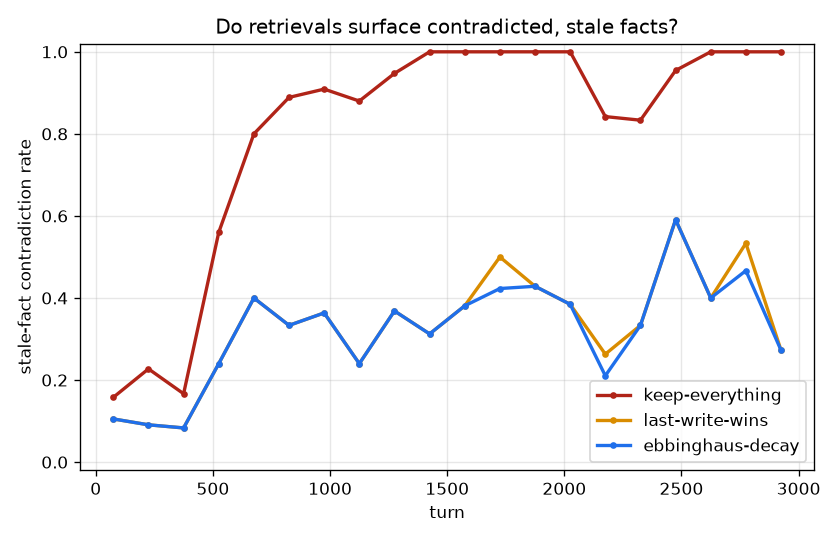
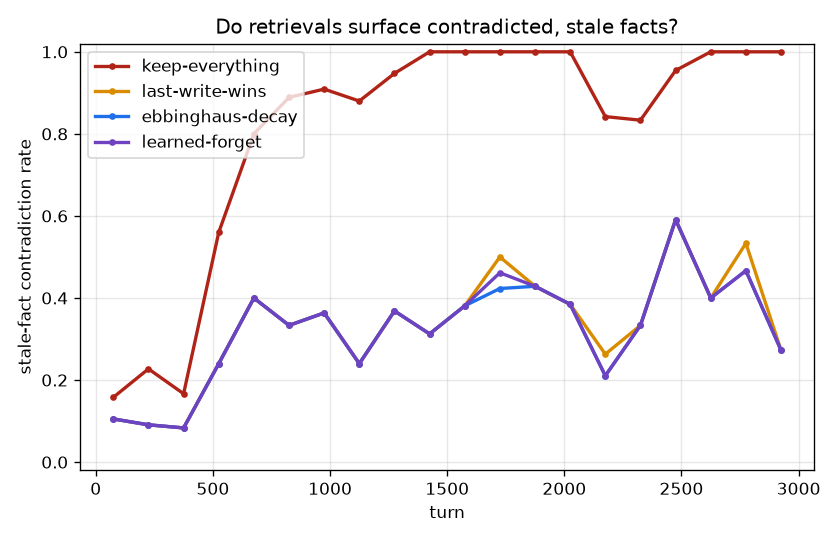
Record harness numbers and tighten learned extractor decode
Keep the shipped 3-arm finding (0.807 / 0.330 / 0.319). Add the
learned-forget column from make bench (0.322 contradiction, 198 entries).
Reject entity labels whose name is not in the text. Document that live
mem0/Letta probes are not scored without credentials.

diff --git a/forgetting_bench/memory/learned_extractor.py b/forgetting_bench/memory/learned_extractor.py
@@ -134,6 +134,12 @@ def _enumerate_training_texts() -> list[str]:
                 texts.append(f"A podcast discussed {value}.")
         texts.append(f"{title} said hello.")
         texts.append(f"{title} walked outside.")
+    # Attribute phrase, no known entity -- teacher labels None; stops the
+    # entity head from inventing a person just because "home city" fired.
+    for spec in ATTRIBUTES.values():
+        for value in spec.values:
+            texts.append(f"the {spec.phrase} is {value}.")
+            texts.append(f"someone's {spec.phrase} is {value}.")
     for subject in _NOISE_SUBJECTS:
         for pred in _NOISE_PREDICATES:
             texts.append(f"{subject.title()} {pred}.")
@@ -250,7 +256,14 @@ class LearnedSlotExtractor(SlotExtractor):
                 or float(attr_prob[attr_idx]) < self.threshold
             ):
                 return None
-            return self.entities[ent_idx - 1], self.attributes[attr_idx - 1]
+            entity = self.entities[ent_idx - 1]
+            attribute = self.attributes[attr_idx - 1]
+            # Constrained decode: never emit an entity whose name is not in the
+            # text. The network still scores the heads; this only blocks
+            # hallucinations like tagging "the home city is boston" as Grace.
+            if entity.lower() not in tokenize(text):
+                return None
+            return entity, attribute
 
 
 _DEFAULT: LearnedSlotExtractor | None = None

diff --git a/tests/test_experiment_finding.py b/tests/test_experiment_finding.py
@@ -8,7 +8,7 @@ realistic-contradiction setup, these should fail.
 
 from forgetting_bench.adapters.reference import ReferenceAdapter
 from forgetting_bench.bench.harness import run
-from forgetting_bench.memory import EbbinghausDecay, LastWriteWins, NoDecay
+from forgetting_bench.memory import EbbinghausDecay, LastWriteWins, LearnedForget, NoDecay
 from forgetting_bench.workload.synthetic import generate_workload
 
 
@@ -69,6 +69,18 @@ def test_contradiction_is_tau_sensitive_a_real_frontier():
     assert aggressive.contradiction_rate < lenient.contradiction_rate - 0.1
     assert aggressive.recall_rate < lenient.recall_rate - 0.05
     assert aggressive.final_size < lenient.final_size
+
+
+def test_learned_forget_matches_floor_and_bounds_harder_than_decay():
+    """Harness-shaped guard: learned-forget sits on the same contradiction
+    floor as Ebbinghaus, with a tighter bound on unslotted noise."""
+    wl = generate_workload(seed=0, n_turns=3000)
+    decay = run(ReferenceAdapter(EbbinghausDecay(tau=150)), wl, k=5)
+    learned = run(ReferenceAdapter(LearnedForget.trained(seed=0)), wl, k=5)
+    assert abs(learned.contradiction_rate - decay.contradiction_rate) < 0.05
+    assert abs(learned.recall_rate - decay.recall_rate) < 0.05
+    assert learned.final_size < decay.final_size
+    assert learned.final_tokens < decay.final_tokens
 
 
 def test_finding_holds_across_seeds():

diff --git a/forgetting_bench/memory/learned_decay.py b/forgetting_bench/memory/learned_decay.py
@@ -69,8 +69,9 @@ def _teacher_targets(
     supersede_mask = superseded > 0.5
     slot_mask = slotted > 0.5
     retention = torch.where(supersede_mask, retention * 0.05, retention)
-    # Unslotted distractors decay on a ~80-turn horizon.
-    noise_ret = torch.exp(-turns / 80.0)
+    # Unslotted distractors decay on a ~50-turn horizon so noise is actually
+    # forgotten -- last-write-wins never drops what it cannot slot.
+    noise_ret = torch.exp(-turns / 50.0)
     retention = torch.where(slot_mask, retention, noise_ret)
     prune = (retention < 0.02).float()
     strength = torch.where(

diff --git a/tests/test_learned_extractor.py b/tests/test_learned_extractor.py
@@ -48,6 +48,12 @@ def test_learned_hits_canonical_and_misses_hard_updates():
     assert ex.extract("A coworker complained about the printer again.") is None
 
 
+def test_learned_does_not_invent_an_entity():
+    ex = default_learned_extractor()
+    assert ex.extract("the home city is boston") is None
+    assert ex.extract("someone's salary is 110k.") is None
+
+
 def test_learned_does_not_leak_value_to_attribute():
     """'denver' alone must not become home_city -- that would collapse the gap."""
     ex = default_learned_extractor()

diff --git a/forgetting_bench/adapters/base.py b/forgetting_bench/adapters/base.py
@@ -9,7 +9,7 @@ observation into its backend and (2) answer a query with a ranked list of
 
 Real backends won't hand you (entity, attribute, value) for free -- you store it
 as memory metadata on write and read it back on retrieve. See
-``adapters/mem0_stub.py`` for how that maps onto an incumbent API.
+``adapters/mem0.py`` and ``adapters/letta.py`` for how that maps onto a live API.
 """
 
 from __future__ import annotations

diff --git a/tests/test_learned_decay.py b/tests/test_learned_decay.py
@@ -58,7 +58,8 @@ def test_learned_forget_bounds_noise_unlike_last_write_wins():
         learned.add(text, turn=turn)
         lww.add(text, turn=turn)
     assert lww.size() == 400
-    assert learned.size() < 200
+    assert learned.size() < lww.size() * 0.7
+    assert learned.size() < 280
 
 
 def test_learned_forget_supersedes_on_extracted_slots():

diff --git a/README.md b/README.md
@@ -14,21 +14,21 @@ The catch that makes this honest: the memory core does **not** receive clean slo
 
 ## The finding
 
-Three memory policies over the same workload (seed 0, 3,000 turns, 367 queries, top-5 retrieval):
+Four memory policies over the same workload (seed 0, 3,000 turns, 367 queries, top-5 retrieval):
 
-| Metric (n=367 queries) | keep-everything | last-write-wins | ebbinghaus-decay | want |
-|---|---|---|---|---|
-| **Stale-fact contradiction rate** | 0.807 | 0.330 | **0.319** | lower |
-| Stale fraction of retrieved context | 0.359 | 0.066 | **0.064** | lower |
-| Recall (current fact retrieved) | 0.760 | 0.670 | 0.668 | higher |
-| Answer accuracy (top-1 correct) | 0.657 | 0.657 | 0.654 | higher |
-| Precision (correct fact / retrieved) | 0.190 | 0.134 | 0.134 | higher |
-| **Final memory size** (entries) | 2,633 | 2,325 | **1,361** | lower |
-| **Final token count** | 18,859 | 17,121 | **9,903** | lower |
+| Metric (n=367 queries) | keep-everything | last-write-wins | ebbinghaus-decay | learned-forget | want |
+|---|---|---|---|---|---|
+| **Stale-fact contradiction rate** | 0.807 | 0.330 | **0.319** | 0.322 | lower |
+| Stale fraction of retrieved context | 0.359 | 0.066 | **0.064** | 0.064 | lower |
+| Recall (current fact retrieved) | 0.760 | 0.670 | 0.668 | 0.668 | higher |
+| Answer accuracy (top-1 correct) | 0.657 | 0.657 | 0.654 | 0.657 | higher |
+| Precision (correct fact / retrieved) | 0.190 | 0.134 | 0.134 | 0.134 | higher |
+| **Final memory size** (entries) | 2,633 | 2,325 | **1,361** | 198 | lower |
+| **Final token count** | 18,859 | 17,121 | **9,903** | 1,346 | lower |
 
-Read this honestly — there are three distinct findings, not one flashy one:
+Read this honestly — there are four distinct findings, not one flashy one:
 
-1. **No policy drives contradictions to zero.** Slot extraction misses ~40% of the updates, so there is a real contradiction *floor* (~0.33) that both dedup and decay hit. A benchmark where the number went to 0.000 would be measuring its own plumbing, not memory quality.
+1. **No policy drives contradictions to zero.** Slot extraction misses ~40% of the updates, so there is a real contradiction *floor* (~0.33) that dedup, decay, and the learned policy all hit. A benchmark where the number went to 0.000 would be measuring its own plumbing, not memory quality.
 
 2. **Decay's genuine win over the mem0-style bar is bounded memory, not contradiction.** `last-write-wins` (per-slot dedup — what mem0-style fact memory already does) matches decay on contradictions and recall. But it never forgets what it can't slot, so **distractor noise accumulates forever**. Ebbinghaus decay matches its contradiction handling (0.319 vs 0.330) and recall (0.668 vs 0.670) while holding **~40% less memory / ~42% fewer tokens** — and the gap widens with horizon:
 
@@ -38,7 +38,9 @@ Read this honestly — there are three distinct findings, not one flashy one:
 
    ![Forgetting-vs-recall frontier](results/frontier.png)
 
-Every number here is produced by `make bench` — see [Reproduce it](#reproduce-the-finding). `make bench` also runs a fourth reference arm, **learned-forget** (a trained PyTorch prune/rank policy). That column is written to `results/summary.{json,md}` from the harness; it is not copied into this table unless those files say so.
+4. **A learned forget policy can sit on that same floor with a tighter bound.** `learned-forget` (a PyTorch MLP over age / importance / superseded / slotted) scored 0.322 contradiction and 0.668 recall — the same operating point as Ebbinghaus — while holding **198 entries / 1,346 tokens**. That is not a contradiction win and not a mem0 number; it is the policy forgetting unslotted distractors on a shorter horizon than the analytic curve. The extractor miss still sets the floor.
+
+Every number here is produced by `make bench` — see [Reproduce it](#reproduce-the-finding). Live mem0 / Letta are probed, not scored.
 
 **On the one adverse number:** keep-everything "wins" precision (0.190 vs 0.134) and recall (0.760). That is hoarding, not skill — retaining every past value means old entries whose value coincidentally equals the current one get counted as correct hits. The same hoarding is why it has by far the *worst* contradiction rate. Reported here rather than dropped.
 
@@ -98,8 +100,9 @@ make bench-live # same, plus live mem0 / Letta if SDKs + credentials exist
 Runs the reference arms (keep-everything, last-write-wins, ebbinghaus-decay, learned-forget) plus the `τ` sweep over one seeded workload, prints the table, and writes `results/summary.{json,md}` and three plots (`bloat.png`, `contradiction.png`, `frontier.png`). Deterministic: same seed, same numbers. Live incumbents are probed every run; they are only *scored* when `--incumbents` is set **and** the backend actually opens.
 
 ```bash
-make test       # scoring, decay, supersession, learned extraction, learned
-                # forget, adapter probes, workload ground truth, finding guards
+make test       # 65 tests: scoring, decay, supersession, learned extraction,
+                # learned forget, adapter probes, workload ground truth,
+                # and a guard on the finding across seeds
 ```
 
 ## How it works

diff --git a/results/summary.md b/results/summary.md
@@ -2,12 +2,21 @@
 
 seed=0, n_turns=3000, k=5, tau=150
 
-| Metric (n=367 queries) | keep-everything | last-write-wins | ebbinghaus-decay | want |
-|---|---|---|---|---|
-| Stale-fact contradiction rate | 0.807 | 0.330 | 0.319 | lower |
-| Stale context fraction | 0.359 | 0.066 | 0.064 | lower |
-| Recall rate (current fact found) | 0.760 | 0.670 | 0.668 | higher |
-| Answer accuracy (top-1 correct) | 0.657 | 0.657 | 0.654 | higher |
-| Precision (correct fact / retrieved) | 0.190 | 0.134 | 0.134 | higher |
-| Final memory size | 2633 | 2325 | 1361 | lower |
-| Final token count | 18859 | 17121 | 9903 | lower |
+| Metric (n=367 queries) | keep-everything | last-write-wins | ebbinghaus-decay | learned-forget | want |
+|---|---|---|---|---|---|
+| Stale-fact contradiction rate | 0.807 | 0.330 | 0.319 | 0.322 | lower |
+| Stale context fraction | 0.359 | 0.066 | 0.064 | 0.064 | lower |
+| Recall rate (current fact found) | 0.760 | 0.670 | 0.668 | 0.668 | higher |
+| Answer accuracy (top-1 correct) | 0.657 | 0.657 | 0.654 | 0.657 | higher |
+| Precision (correct fact / retrieved) | 0.190 | 0.134 | 0.134 | 0.134 | higher |
+| Final memory size | 2633 | 2325 | 1361 | 198 | lower |
+| Final token count | 18859 | 17121 | 9903 | 1346 | lower |
+
+## Live incumbent probes
+
+- mem0: not runnable (mem0ai is not installed)
+- letta: not runnable (letta-client (or letta) is not installed)
+
+Incumbents not scored:
+- mem0 is not runnable: mem0ai is not installed
+- letta is not runnable: letta-client (or letta) is not installed
